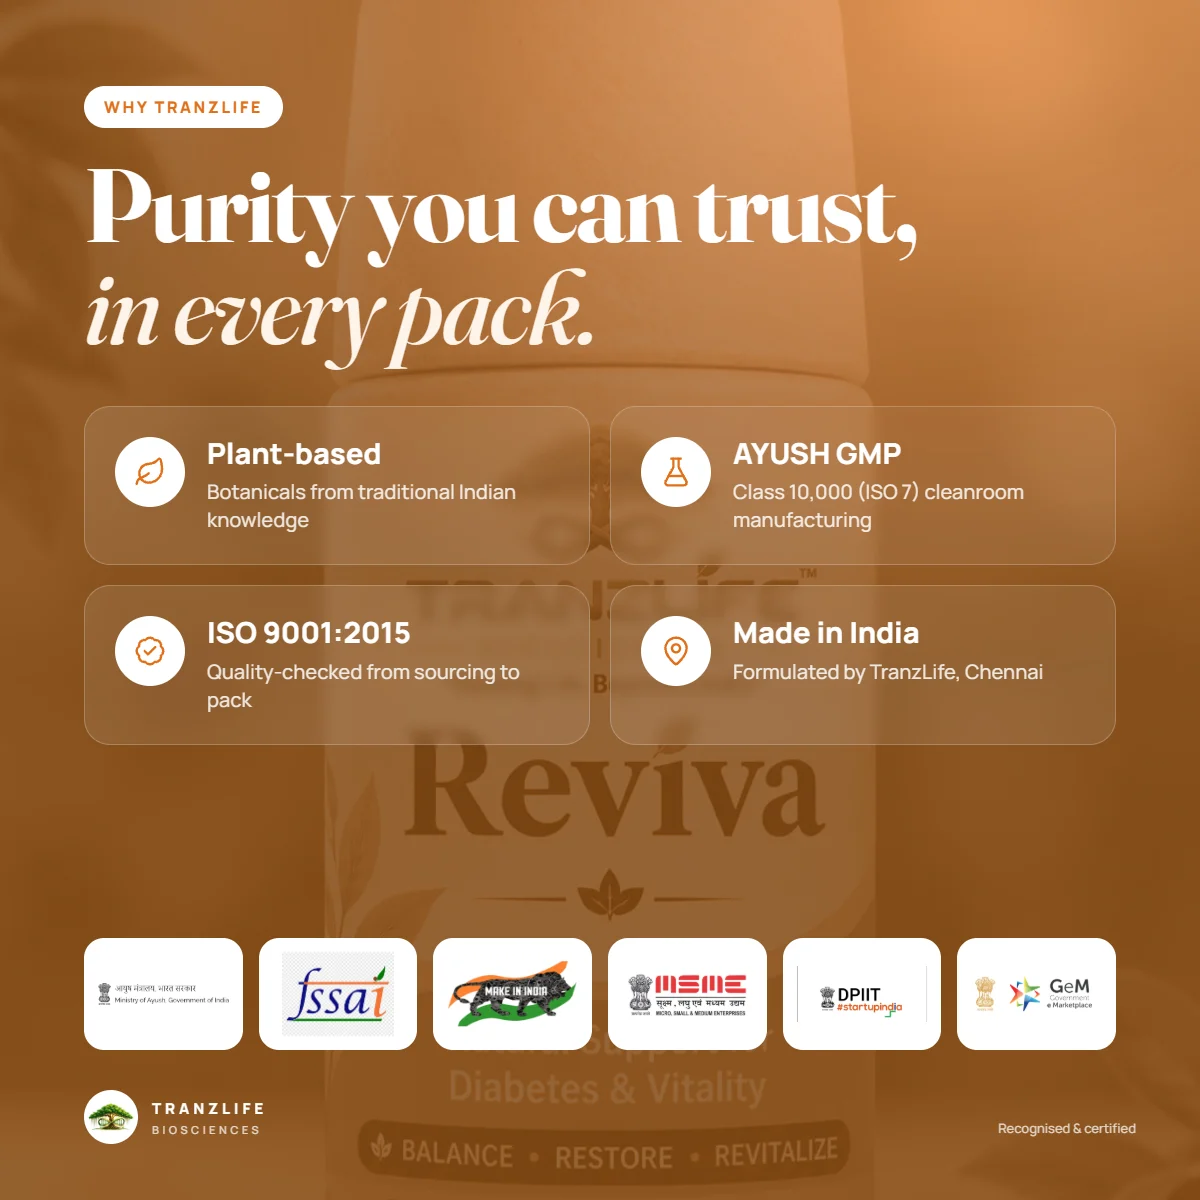
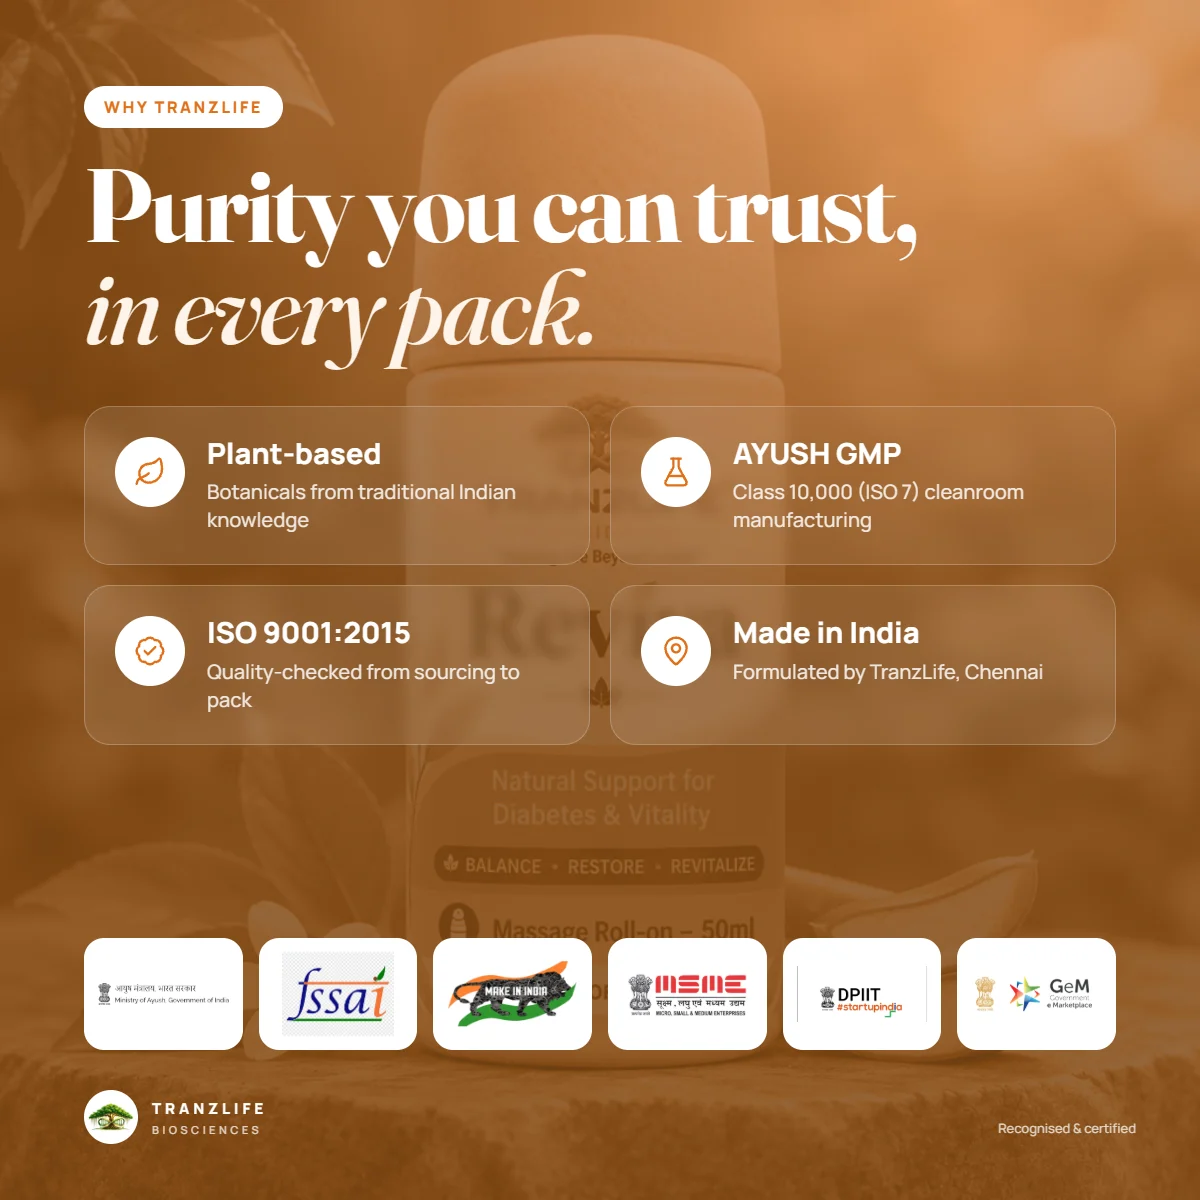
feat(photos): new lifestyle photos for PulmoClear, BreatheFree, Liver Booster and Reviva
- Showcase (home cards, first product-page image) now the new scene photos (-v3 files)
- Liver Booster / Reviva product photo and cut-out cropped from the new photos (migration 022
  moves the live product_media rows); PulmoClear / BreatheFree keep their clean cut-outs
- Product-page slides re-rendered with the new photos; cache-busted (?v=3)
- Image changes only: no price or price-display changes

diff --git a/src/content/site.js b/src/content/site.js
@@ -25,7 +25,7 @@ export const BRAND = {
 export const PRODUCTS = [
   {
     id: 'gummies',
-    showcase: 'assets/products/showcase-pulmoclear-v2.jpg',
+    showcase: 'assets/products/showcase-pulmoclear-v3.jpg',
     compare: { kind: "cutout", before: { src: "illustrations/lungs-before.webp", label: "Before", sub: "Everyday pollutants", alt: "Illustration of discoloured lungs burdened by everyday pollutants" }, after: { src: "illustrations/lungs.webp", label: "After", sub: "Supported with Lung Booster", alt: "Illustration of healthy, clear lungs" } }, photo: 4, ingredients: ['Tulsi', 'Vasaka', 'Licorice Root', 'Sukku (Dry Ginger)', 'Thippili (Long Pepper)', 'Vitamin C, D3 & Zinc'], dosage: 'Follow the serving size on the pack; do not exceed the recommended daily intake', name: 'PulmoClear™ Lung Booster Gummies', short: 'PulmoClear™', tag: 'Lung Detox',
     price: 549, size: '60 Gummies',
     desc: 'Botanical-based wellness gummies combining traditional Ayurvedic herbs (Tulsi, Vasaka, Licorice, Dry Ginger, Long Pepper and more) with Vitamin C, D3 and Zinc, to support respiratory wellness and everyday health. Natural berry flavour, 60 gummies.',
@@ -33,7 +33,7 @@ export const PRODUCTS = [
   },
   {
     id: 'liver',
-    showcase: 'assets/products/showcase-liver-v2.jpg',
+    showcase: 'assets/products/showcase-liver-v3.jpg',
     compare: { kind: "cutout", before: { src: "illustrations/liver-before.webp", label: "Before", sub: "Everyday strain", alt: "Illustration of a dull, mottled liver under everyday strain" }, after: { src: "illustrations/liver-botanical.webp", label: "After", sub: "Supported with Liver Booster", alt: "Illustration of a smooth, healthy liver" } }, photo: 5, ingredients: ['Bhumyamalaki 500mg', 'Kalmegh 400mg', 'Kutki 400mg', 'Punarnava 300mg', 'Bhringraj 300mg', 'Daruharidra 200mg'], dosage: 'Adults: 10 ml (2 tsp) twice daily after meals', name: 'Liver Booster (LiverDetox™) Polyherbal Concoction', short: 'LiverDetox™', tag: 'Liver Booster',
     price: 900, size: '500 ml Polyherbal Concoction',
     desc: '100% Ayurvedic polyherbal concoction of 11 traditional botanicals, including Bhumyamalaki, Kalmegh, Kutki, Punarnava and Daruharidra, designed to support normal liver function, digestive wellness and overall well-being. No added colours or sugar.',
@@ -49,7 +49,7 @@ export const PRODUCTS = [
   },
   {
     id: 'reviva',
-    showcase: 'assets/products/showcase-reviva-v2.jpg',
+    showcase: 'assets/products/showcase-reviva-v3.jpg',
     compare: { kind: "scene", before: { src: "illustrations/reviva-before.webp", label: "Before", sub: "A heavy start", alt: "A tired man sitting on the edge of his bed in dim morning light, rubbing his neck" }, after: { src: "illustrations/reviva.webp", label: "After", sub: "With the Reviva ritual", alt: "The same man refreshed and smiling in warm sunlight, holding a roll-on bottle" } }, photo: 3, ingredients: ['Dill essential oil', 'Eucalyptus essential oil', 'Massage roll-on', 'External use'], dosage: 'Roll gently around the belly button every morning on an empty stomach; use daily', name: 'Reviva™ Roll-On', short: 'Reviva™', tag: 'Botanical Massage Roll-On',
     price: 399, size: '50 ml Massage Roll-On',
     desc: 'Botanical massage roll-on for an everyday wellness and vitality ritual. A practical massage roll-on designed to complement a daily self-care routine with a refreshing topical application.',
@@ -65,7 +65,7 @@ export const PRODUCTS = [
   },
   {
     id: 'inhaler',
-    showcase: 'assets/products/showcase-breathefree-v2.jpg',
+    showcase: 'assets/products/showcase-breathefree-v3.jpg',
     compare: { kind: "scene", before: { src: "illustrations/inhaler-before.webp", label: "Before", sub: "The urge hits", alt: "A stressed man on a grey city terrace, hand on his forehead, holding a cigarette pack" }, after: { src: "illustrations/inhaler.webp", label: "After", sub: "With BreatheFree", alt: "The same man calm on a green, sunlit terrace, breathing in from a small white inhaler, the cigarette pack crushed and set aside" } }, photo: 6, ingredients: ['Peppermint Oil', 'Eucalyptus Oil', 'Lavender Oil', 'Lemon Oil', 'Black Pepper Oil', 'Tulsi Oil'], dosage: 'Remove the cap, place near each nostril and take slow, deep inhalations whenever cravings or stress hit', name: 'BreatheFree™ Aromatherapy Inhaler', short: 'BreatheFree™', tag: 'Quit Smoking',
     price: 249, size: 'Pocket Inhaler',
     desc: 'Essential oil-based, non-addictive aromatherapy inhaler to support your journey towards a smoke-free lifestyle. Peppermint, Eucalyptus, Lavender, Lemon, Black Pepper and Tulsi oils help manage cravings and stress, and promote relaxation and breathing comfort.',

diff --git a/src/store/data/gallery.js b/src/store/data/gallery.js
@@ -2,22 +2,22 @@
 // change the product data or scripts/gallery/content.mjs and re-run the script.
 export const GALLERY = {
   "pulmoclear-gummies": [
-    "/assets/products/showcase-pulmoclear-v2.jpg",
-    "/img/gallery/pulmoclear-gummies/01-helps.webp?v=2",
+    "/assets/products/showcase-pulmoclear-v3.jpg",
+    "/img/gallery/pulmoclear-gummies/01-helps.webp?v=3",
     "/img/p/pulmoclear-v2.webp",
-    "/img/gallery/pulmoclear-gummies/02-ingredients.webp?v=2",
-    "/img/gallery/pulmoclear-gummies/03-made-for.webp?v=2",
-    "/img/gallery/pulmoclear-gummies/04-how-to-use.webp?v=2",
-    "/img/gallery/pulmoclear-gummies/05-why-tranzlife.webp?v=2"
+    "/img/gallery/pulmoclear-gummies/02-ingredients.webp?v=3",
+    "/img/gallery/pulmoclear-gummies/03-made-for.webp?v=3",
+    "/img/gallery/pulmoclear-gummies/04-how-to-use.webp?v=3",
+    "/img/gallery/pulmoclear-gummies/05-why-tranzlife.webp?v=3"
   ],
   "liver-booster": [
-    "/assets/products/showcase-liver-v2.jpg",
-    "/img/gallery/liver-booster/01-helps.webp?v=2",
-    "/img/p/liver-v2.webp",
-    "/img/gallery/liver-booster/02-ingredients.webp?v=2",
-    "/img/gallery/liver-booster/03-made-for.webp?v=2",
-    "/img/gallery/liver-booster/04-how-to-use.webp?v=2",
-    "/img/gallery/liver-booster/05-why-tranzlife.webp?v=2"
+    "/assets/products/showcase-liver-v3.jpg",
+    "/img/gallery/liver-booster/01-helps.webp?v=3",
+    "/img/p/liver-v3.webp",
+    "/img/gallery/liver-booster/02-ingredients.webp?v=3",
+    "/img/gallery/liver-booster/03-made-for.webp?v=3",
+    "/img/gallery/liver-booster/04-how-to-use.webp?v=3",
+    "/img/gallery/liver-booster/05-why-tranzlife.webp?v=3"
   ],
   "cyclerelief-roll-on": [
     "/assets/products/showcase-rollon.jpg",
@@ -29,13 +29,13 @@ export const GALLERY = {
     "/img/gallery/cyclerelief-roll-on/05-why-tranzlife.webp"
   ],
   "reviva-roll-on": [
-    "/assets/products/showcase-reviva-v2.jpg",
-    "/img/gallery/reviva-roll-on/01-helps.webp?v=2",
-    "/img/p/reviva-v2.webp",
-    "/img/gallery/reviva-roll-on/02-ingredients.webp?v=2",
-    "/img/gallery/reviva-roll-on/03-made-for.webp?v=2",
-    "/img/gallery/reviva-roll-on/04-how-to-use.webp?v=2",
-    "/img/gallery/reviva-roll-on/05-why-tranzlife.webp?v=2"
+    "/assets/products/showcase-reviva-v3.jpg",
+    "/img/gallery/reviva-roll-on/01-helps.webp?v=3",
+    "/img/p/reviva-v3.webp",
+    "/img/gallery/reviva-roll-on/02-ingredients.webp?v=3",
+    "/img/gallery/reviva-roll-on/03-made-for.webp?v=3",
+    "/img/gallery/reviva-roll-on/04-how-to-use.webp?v=3",
+    "/img/gallery/reviva-roll-on/05-why-tranzlife.webp?v=3"
   ],
   "energy-booster": [
     "/assets/products/showcase-energy.jpg",
@@ -47,13 +47,13 @@ export const GALLERY = {
     "/img/gallery/energy-booster/05-why-tranzlife.webp"
   ],
   "breathefree-inhaler": [
-    "/assets/products/showcase-breathefree-v2.jpg",
-    "/img/gallery/breathefree-inhaler/01-helps.webp?v=2",
+    "/assets/products/showcase-breathefree-v3.jpg",
+    "/img/gallery/breathefree-inhaler/01-helps.webp?v=3",
     "/img/p/breathefree-v2.webp",
-    "/img/gallery/breathefree-inhaler/02-ingredients.webp?v=2",
-    "/img/gallery/breathefree-inhaler/03-made-for.webp?v=2",
-    "/img/gallery/breathefree-inhaler/04-how-to-use.webp?v=2",
-    "/img/gallery/breathefree-inhaler/05-why-tranzlife.webp?v=2"
+    "/img/gallery/breathefree-inhaler/02-ingredients.webp?v=3",
+    "/img/gallery/breathefree-inhaler/03-made-for.webp?v=3",
+    "/img/gallery/breathefree-inhaler/04-how-to-use.webp?v=3",
+    "/img/gallery/breathefree-inhaler/05-why-tranzlife.webp?v=3"
   ],
   "breathfree-drops": [
     "/img/p/breathfree-drops.jpg",

diff --git a/src/components/sections/ProductSlider.jsx b/src/components/sections/ProductSlider.jsx
@@ -13,7 +13,7 @@ const ALL_FORMULATIONS = [
     subTitle: 'Respiratory Clarity & Daily Lung Detox',
     bgWord: 'PULMO',
     bgColor: '#bca7dc', // Soft berry lilac matching Blendy reference & natural berry gummies
-    bottleImg: '/assets/product-4.png?v=2',
+    bottleImg: '/assets/product-4.png?v=3',
     alt: 'PulmoClear™ Lung Booster Gummies packaging',
     tag: 'Lung Detox',
     ingredients: [
@@ -34,7 +34,7 @@ const ALL_FORMULATIONS = [
     subTitle: 'Hepatic Protection, Cell Repair & Digestion',
     bgWord: 'LIVER',
     bgColor: '#dfbe95', // Warm golden herbal ochre
-    bottleImg: '/assets/product-5.png?v=2',
+    bottleImg: '/assets/product-5.png?v=3',
     alt: 'LiverDetox™ Polyherbal Concoction bottle',
     tag: 'Liver Booster',
     ingredients: [
@@ -55,7 +55,7 @@ const ALL_FORMULATIONS = [
     subTitle: 'Abdominal Soothing & Cramp Relief Ritual',
     bgWord: 'CYCLE',
     bgColor: '#c8b3e6', // Calming orchid lavender
-    bottleImg: '/assets/product-1.png?v=2',
+    bottleImg: '/assets/product-1.png?v=3',
     alt: 'CycleRelief™ Menstrual Comfort Roll-On applicator',
     tag: 'Period Care',
     ingredients: [
@@ -76,7 +76,7 @@ const ALL_FORMULATIONS = [
     subTitle: 'Bioactive Stamina, Vitality & Physical Endurance',
     bgWord: 'ENERGY',
     bgColor: '#ad98d6', // Vibrant energized royal violet
-    bottleImg: '/assets/product-2.png?v=2',
+    bottleImg: '/assets/product-2.png?v=3',
     alt: 'TranzLife Energy Booster™ bottle',
     tag: 'Active Vitality',
     ingredients: [
@@ -97,7 +97,7 @@ const ALL_FORMULATIONS = [
     subTitle: 'Morning Awakening & Vitality Self-Care Ritual',
     bgWord: 'REVIVA',
     bgColor: '#e8bfa1', // Warm sunrise apricot peach
-    bottleImg: '/assets/product-3.png?v=2',
+    bottleImg: '/assets/product-3.png?v=3',
     alt: 'Reviva™ Botanical Massage Roll-On applicator',
     tag: 'Vitality Ritual',
     ingredients: [
@@ -118,7 +118,7 @@ const ALL_FORMULATIONS = [
     subTitle: 'Fast-Acting Nicotine & Smoking Urge Relief',
     bgWord: 'BREATHE',
     bgColor: '#9ecfc5', // Crisp cooling peppermint teal
-    bottleImg: '/assets/product-6.png?v=2',
+    bottleImg: '/assets/product-6.png?v=3',
     alt: 'BreatheFree™ Aromatherapy Inhaler',
     tag: 'Quit Smoking Support',
     ingredients: [

diff --git a/src/store/data/products.js b/src/store/data/products.js
@@ -84,7 +84,7 @@ export const PRODUCTS = [
     accent: '#7a3b12',
     tint: '#f6efe6',
     concerns: ['liver'],
-    images: ['/img/p/liver-v2.webp'],
+    images: ['/img/p/liver-v3.webp'],
     brochure: '/brochures/liver-booster.pdf',
     highlights: ['11 Ayurvedic botanicals', 'Bhumyamalaki, Kalmegh & Kutki', 'No added colours or sugar', 'Mixed flavour, 500 ml'],
     summary:
@@ -216,7 +216,7 @@ export const PRODUCTS = [
     accent: '#e0701a',
     tint: '#fdf1e5',
     concerns: ['blood-sugar'],
-    images: ['/img/p/reviva-v2.webp'],
+    images: ['/img/p/reviva-v3.webp'],
     brochure: '/brochures/reviva.pdf',
     highlights: ['Dill & Eucalyptus essential oils', 'Gentle massage roll-on', 'Portable 50 ml pack', 'ISO 9001:2015 & GMP certified'],
     summary:

diff --git a/server/admin/catalog.test.js b/server/admin/catalog.test.js
@@ -40,7 +40,7 @@ test('public catalogue: content copied from the site, prices in rupees, no exact
   const liver = r.body.products.find((p) => p.id === 'liver-booster');
   assert.equal(liver.price, 900);
   assert.ok(liver.faqs.length >= 3 && liver.ingredients.includes('daruharidra'));
-  assert.deepEqual(liver.images, ['/img/p/liver-v2.webp']);
+  assert.deepEqual(liver.images, ['/img/p/liver-v3.webp']);
   assert.equal(liver.stock, 'in');
   assert.equal(liver.available, undefined, 'exact stock is never public');
 });

diff --git a/src/components/ui.jsx b/src/components/ui.jsx
@@ -46,7 +46,7 @@ export function Ph({ children, ...rest }) {
 export function ProductImg({ n, alt = '', eager = false }) {
   return (
     <img
-      src={`${import.meta.env.BASE_URL}assets/product-${n}.png?v=2`}
+      src={`${import.meta.env.BASE_URL}assets/product-${n}.png?v=3`}
       alt={alt}
       loading={eager ? 'eager' : 'lazy'}
       decoding="async"
